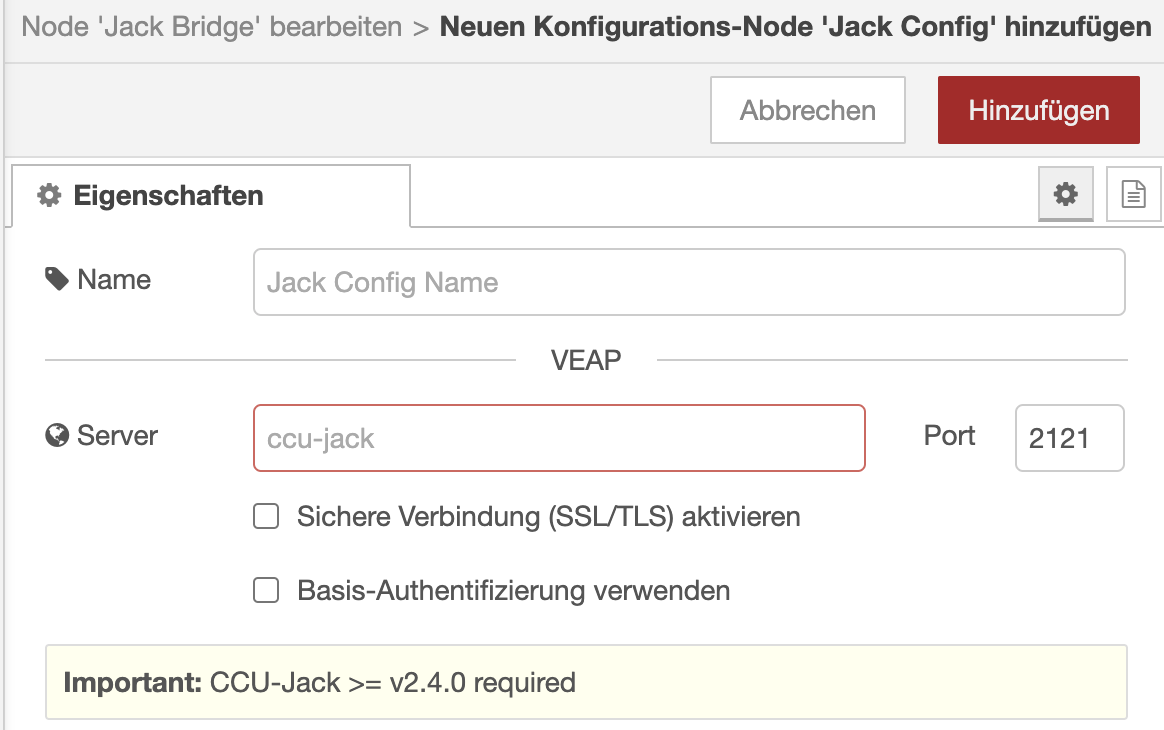
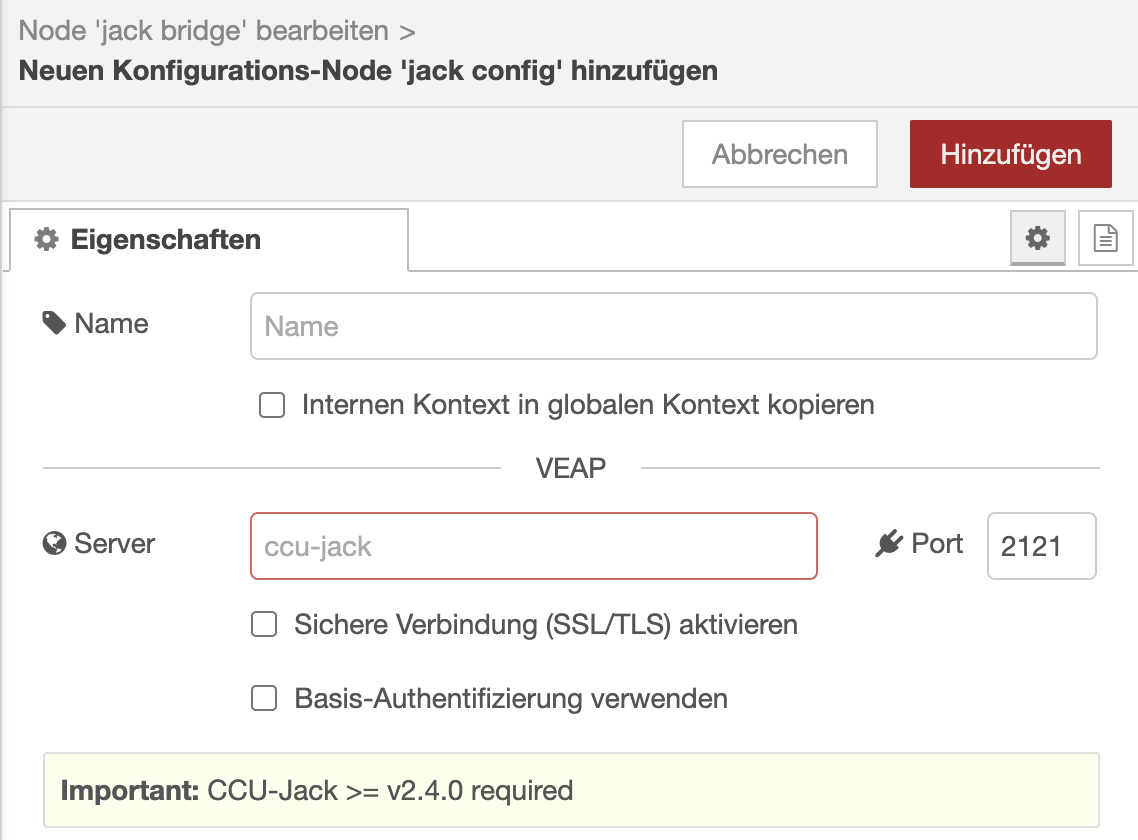
feat: add option to store copy of internal context in global context

diff --git a/nodes/jack-config.js b/nodes/jack-config.js
@@ -50,6 +50,7 @@ function nodeInstance(config) {
     this.contextStore = {};
     this.userStore = {};
     this.timerContextStore;
+    this.usecontext = config.usecontext;
 
     this.isLocal = config.host.startsWith('127.') || config.host === 'localhost' || false;
 
@@ -102,9 +103,13 @@ function nodeInstance(config) {
             }
         }
 
-        if (this.userStore) {
+        if (this.userStore && this.usecontext) {
             this.userStore.ts = Date.now();
             this.globalContext.set('jack-config-' + config.id, this.userStore, (error) => {
+                if (error) this.error(error);
+            });
+        } else {
+            this.globalContext.set('jack-config-' + config.id, undefined, (error) => {
                 if (error) this.error(error);
             });
         }
@@ -161,6 +166,15 @@ function nodeInstance(config) {
                 ...this.contextStore,
                 ...domainResources,
             };
+
+            if (this.usecontext)
+                for (const domainResource in domainResources)
+                    RED.util.setObjectProperty(
+                        this.userStore,
+                        `${domainResource}`,
+                        domainResources[domainResource],
+                        true
+                    );
 
             for (const domain of rootDomains) {
                 this.contextStore[domain.identifier]['.'] = {
@@ -722,10 +736,10 @@ function nodeInstance(config) {
             payload = this.savePayload(domain, topic, payload);
             const item = this.prepareReply(domain, topicParts, payload.v);
 
-            if (['device', 'virtdev'].includes(domain)) {
+            if (this.usecontext && ['device', 'virtdev'].includes(domain)) {
                 RED.util.setObjectProperty(
                     this.userStore,
-                    `${item.device}.${item.channelIndex}.${item.datapoint}`,
+                    `${domain}.${item.device}.${item.channelIndex}.${item.datapoint}.payload`,
                     payload,
                     true
                 );
@@ -822,10 +836,11 @@ function nodeInstance(config) {
                 payload: message,
                 ...item,
                 value: payload.v,
-                valuePrevious: payload.previous,
+                valuePrevious: payload.vP,
                 qos: payload.qos || 0,
                 retain: payload.retain || false,
                 ts: payload.ts || Date.now(),
+                tsPrevious: payload.tsP,
                 s: payload.s || 0,
                 change: payload.change,
                 cache: payload.cache,

diff --git a/nodes/jack-config.html b/nodes/jack-config.html
@@ -27,6 +27,13 @@
         <input type="text" id="node-config-input-name" data-i18n="[placeholder]@ptweety/node-red-contrib-ccu-jack/messages:config.input.name" style="width: calc(100% - 105px)">
     </div>
 
+    <div class="form-row">
+        <label for="node-config-input-usecontext"> </label>
+        <input type="checkbox" id="node-config-input-usecontext" style="width: 22px; vertical-align: top;">
+        <span data-i18n="@ptweety/node-red-contrib-ccu-jack/messages:config.label.use-context"></span>
+    </div>
+
+
     <div class="separator">VEAP</div>
 
     <div class="form-row">
@@ -61,6 +68,7 @@
 	<div class="form-tips" style="max-width: unset; width: calc(100% - 18px)">
 		<b>Important:</b> CCU-Jack >= v2.4.0 required
 	</div>
+
 </script>
 
 <script type="text/javascript">
@@ -82,6 +90,8 @@
             useauth: { value: false },
             usetls: { value: false },
             tls: { type: 'tls-config', required: false },
+
+            usecontext: { value: false },
         },
         credentials: {
             user: { type: 'text' },

diff --git a/nodes/locales/de/jack-config.html b/nodes/locales/de/jack-config.html
@@ -5,7 +5,9 @@ Diese Konfiguration erstellt eine einzelne Verbindung zu einem CCU-Jack, welche 
 
 ### Setup
 
-: Server (string) : `IP` oderr `hostname` des CCU-Jack
+: Internen Kontext in globalen Kontext kopieren (checkbox) :
+
+: Server (string) : `IP` oder `hostname` des CCU-Jack
 : Port (number) : `2121` (http) <br> `2122` (https)
 : Sichere Verbindung (SSL/TLS) aktivieren (checkbox) :
 : Basis-Authentifizierung verwenden (checkbox) : 

diff --git a/nodes/locales/en-US/jack-config.html b/nodes/locales/en-US/jack-config.html
@@ -5,6 +5,8 @@ This configuration will create a single connection to the CCU-Jack which can the
 
 ### Setup
 
+: Copy internal context in global context (checkbox) :
+
 : Server (string) : `IP` or `hostname` of the CCU-Jack
 : Port (number) : `2121` (http) <br> `2122` (https)
 : Enable secure (SSL/TLS) connection (checkbox) :
